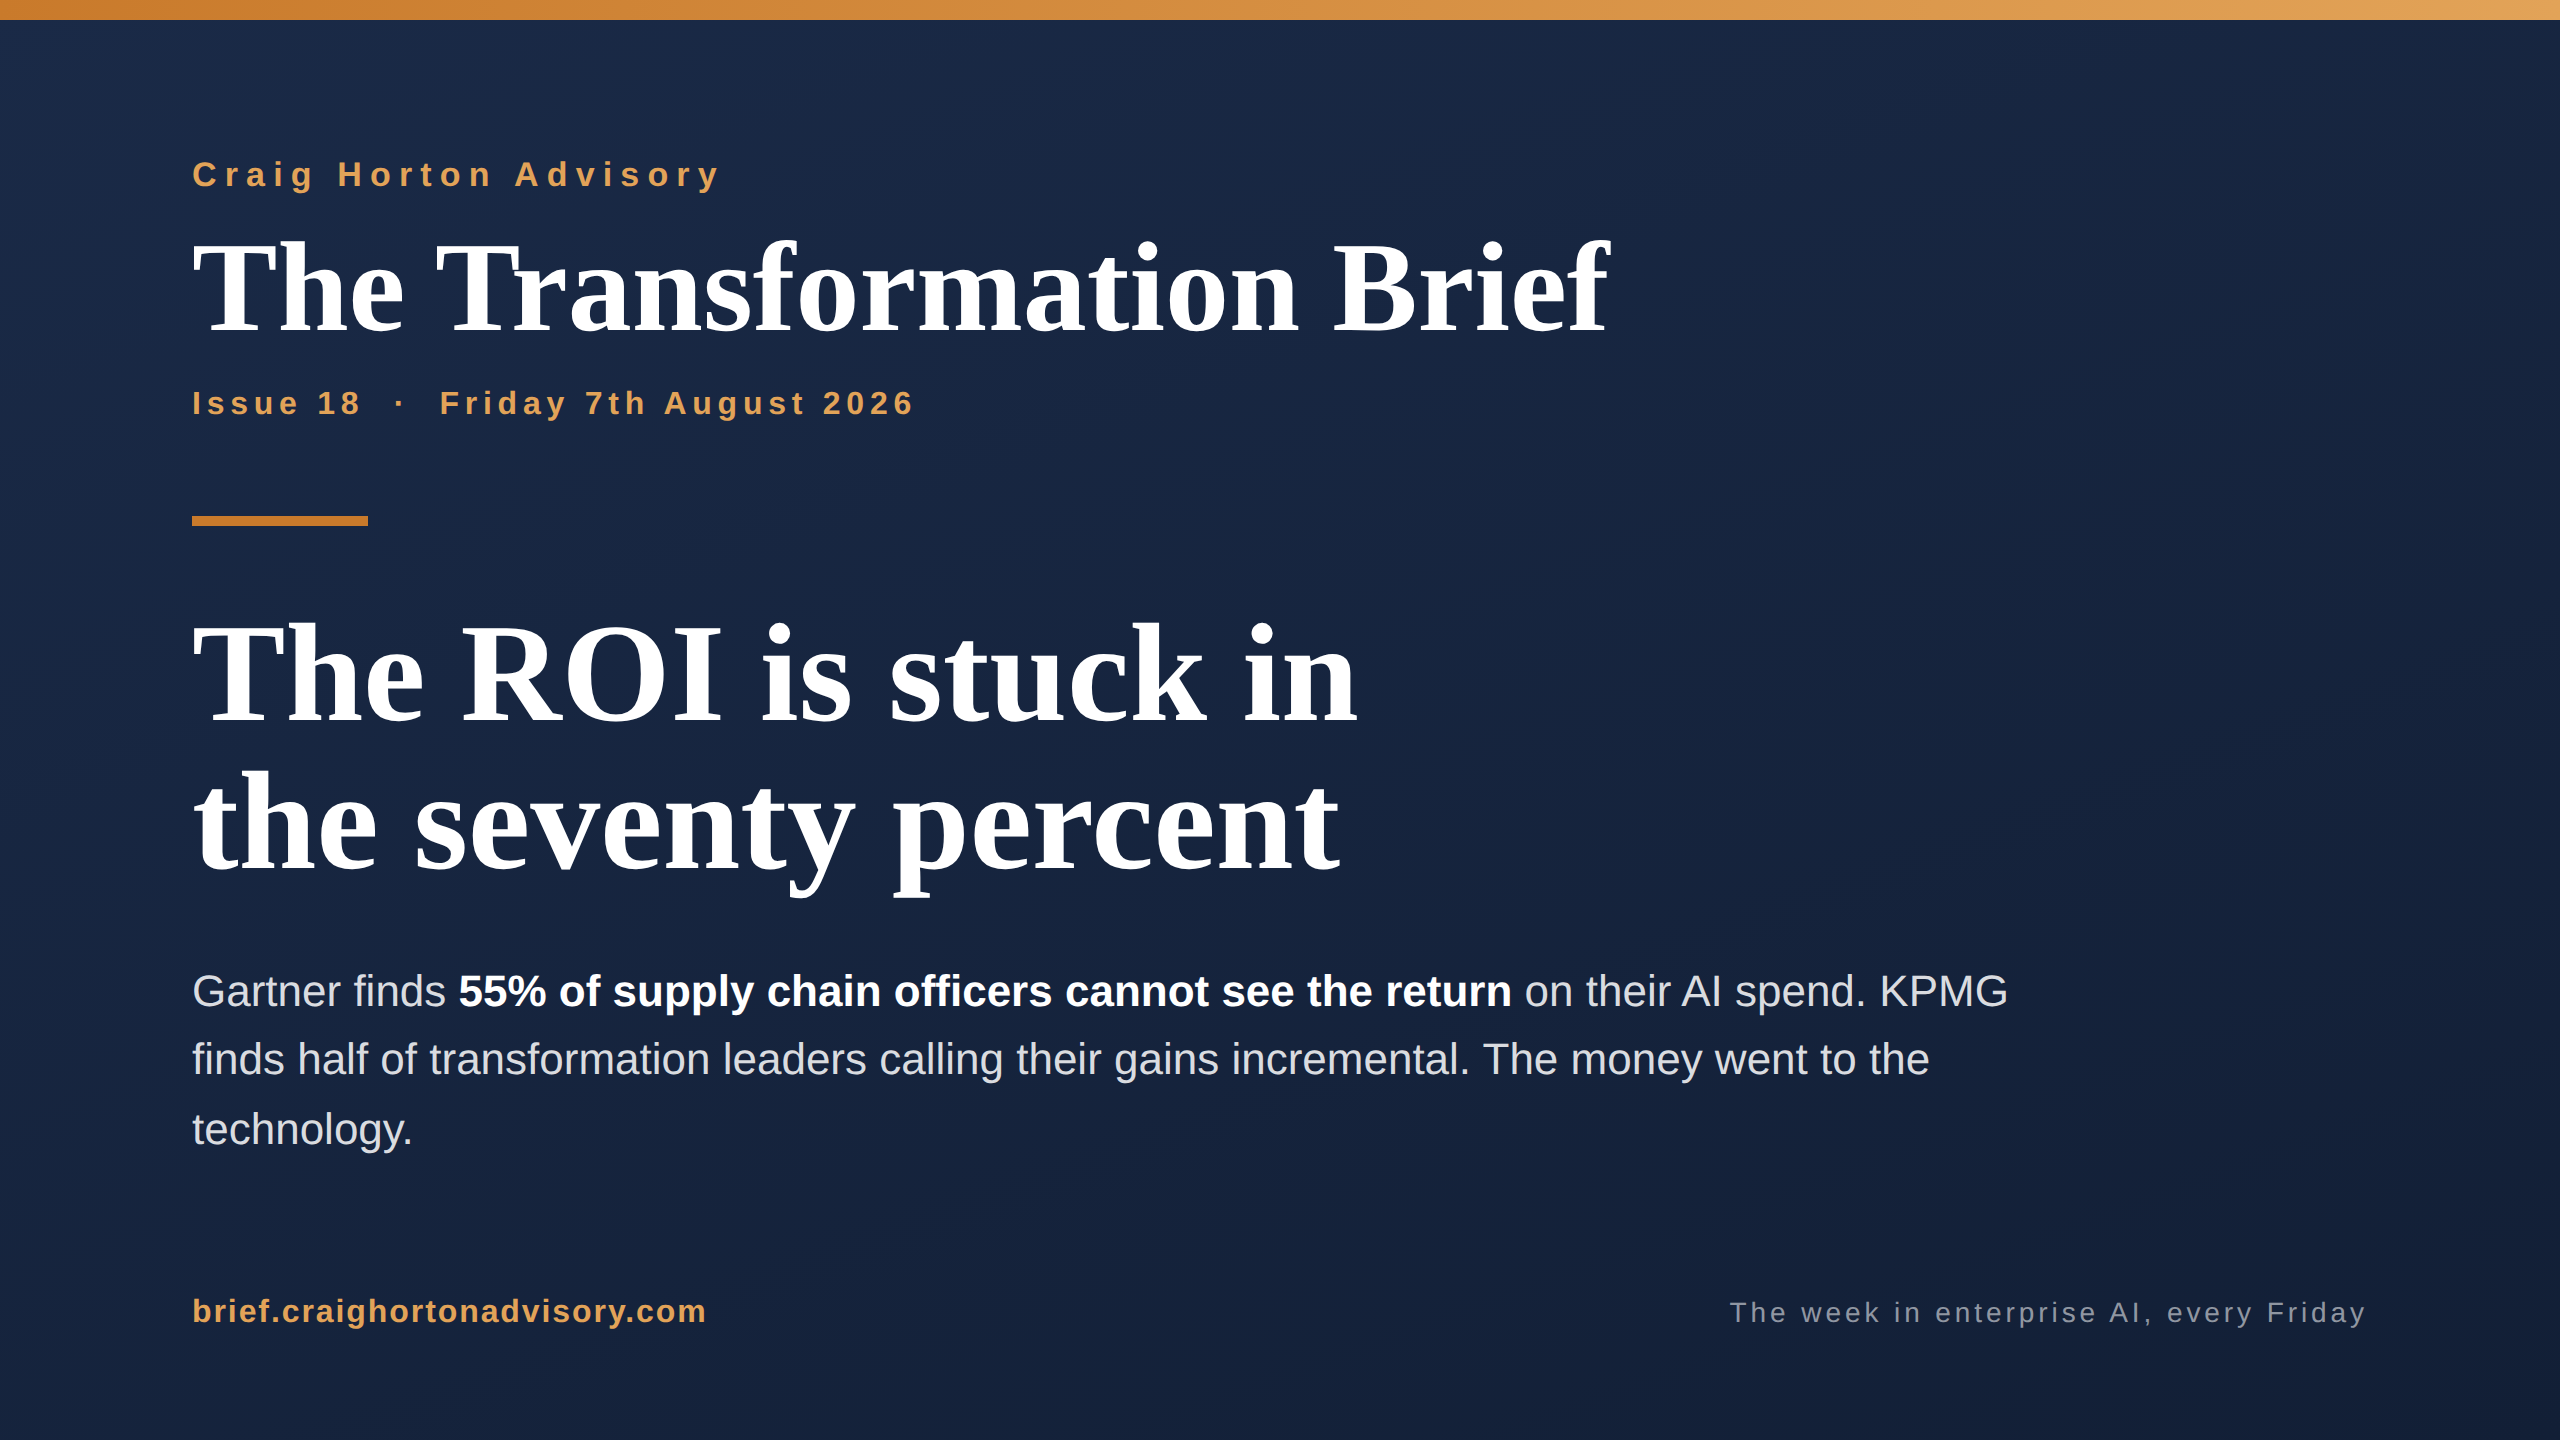
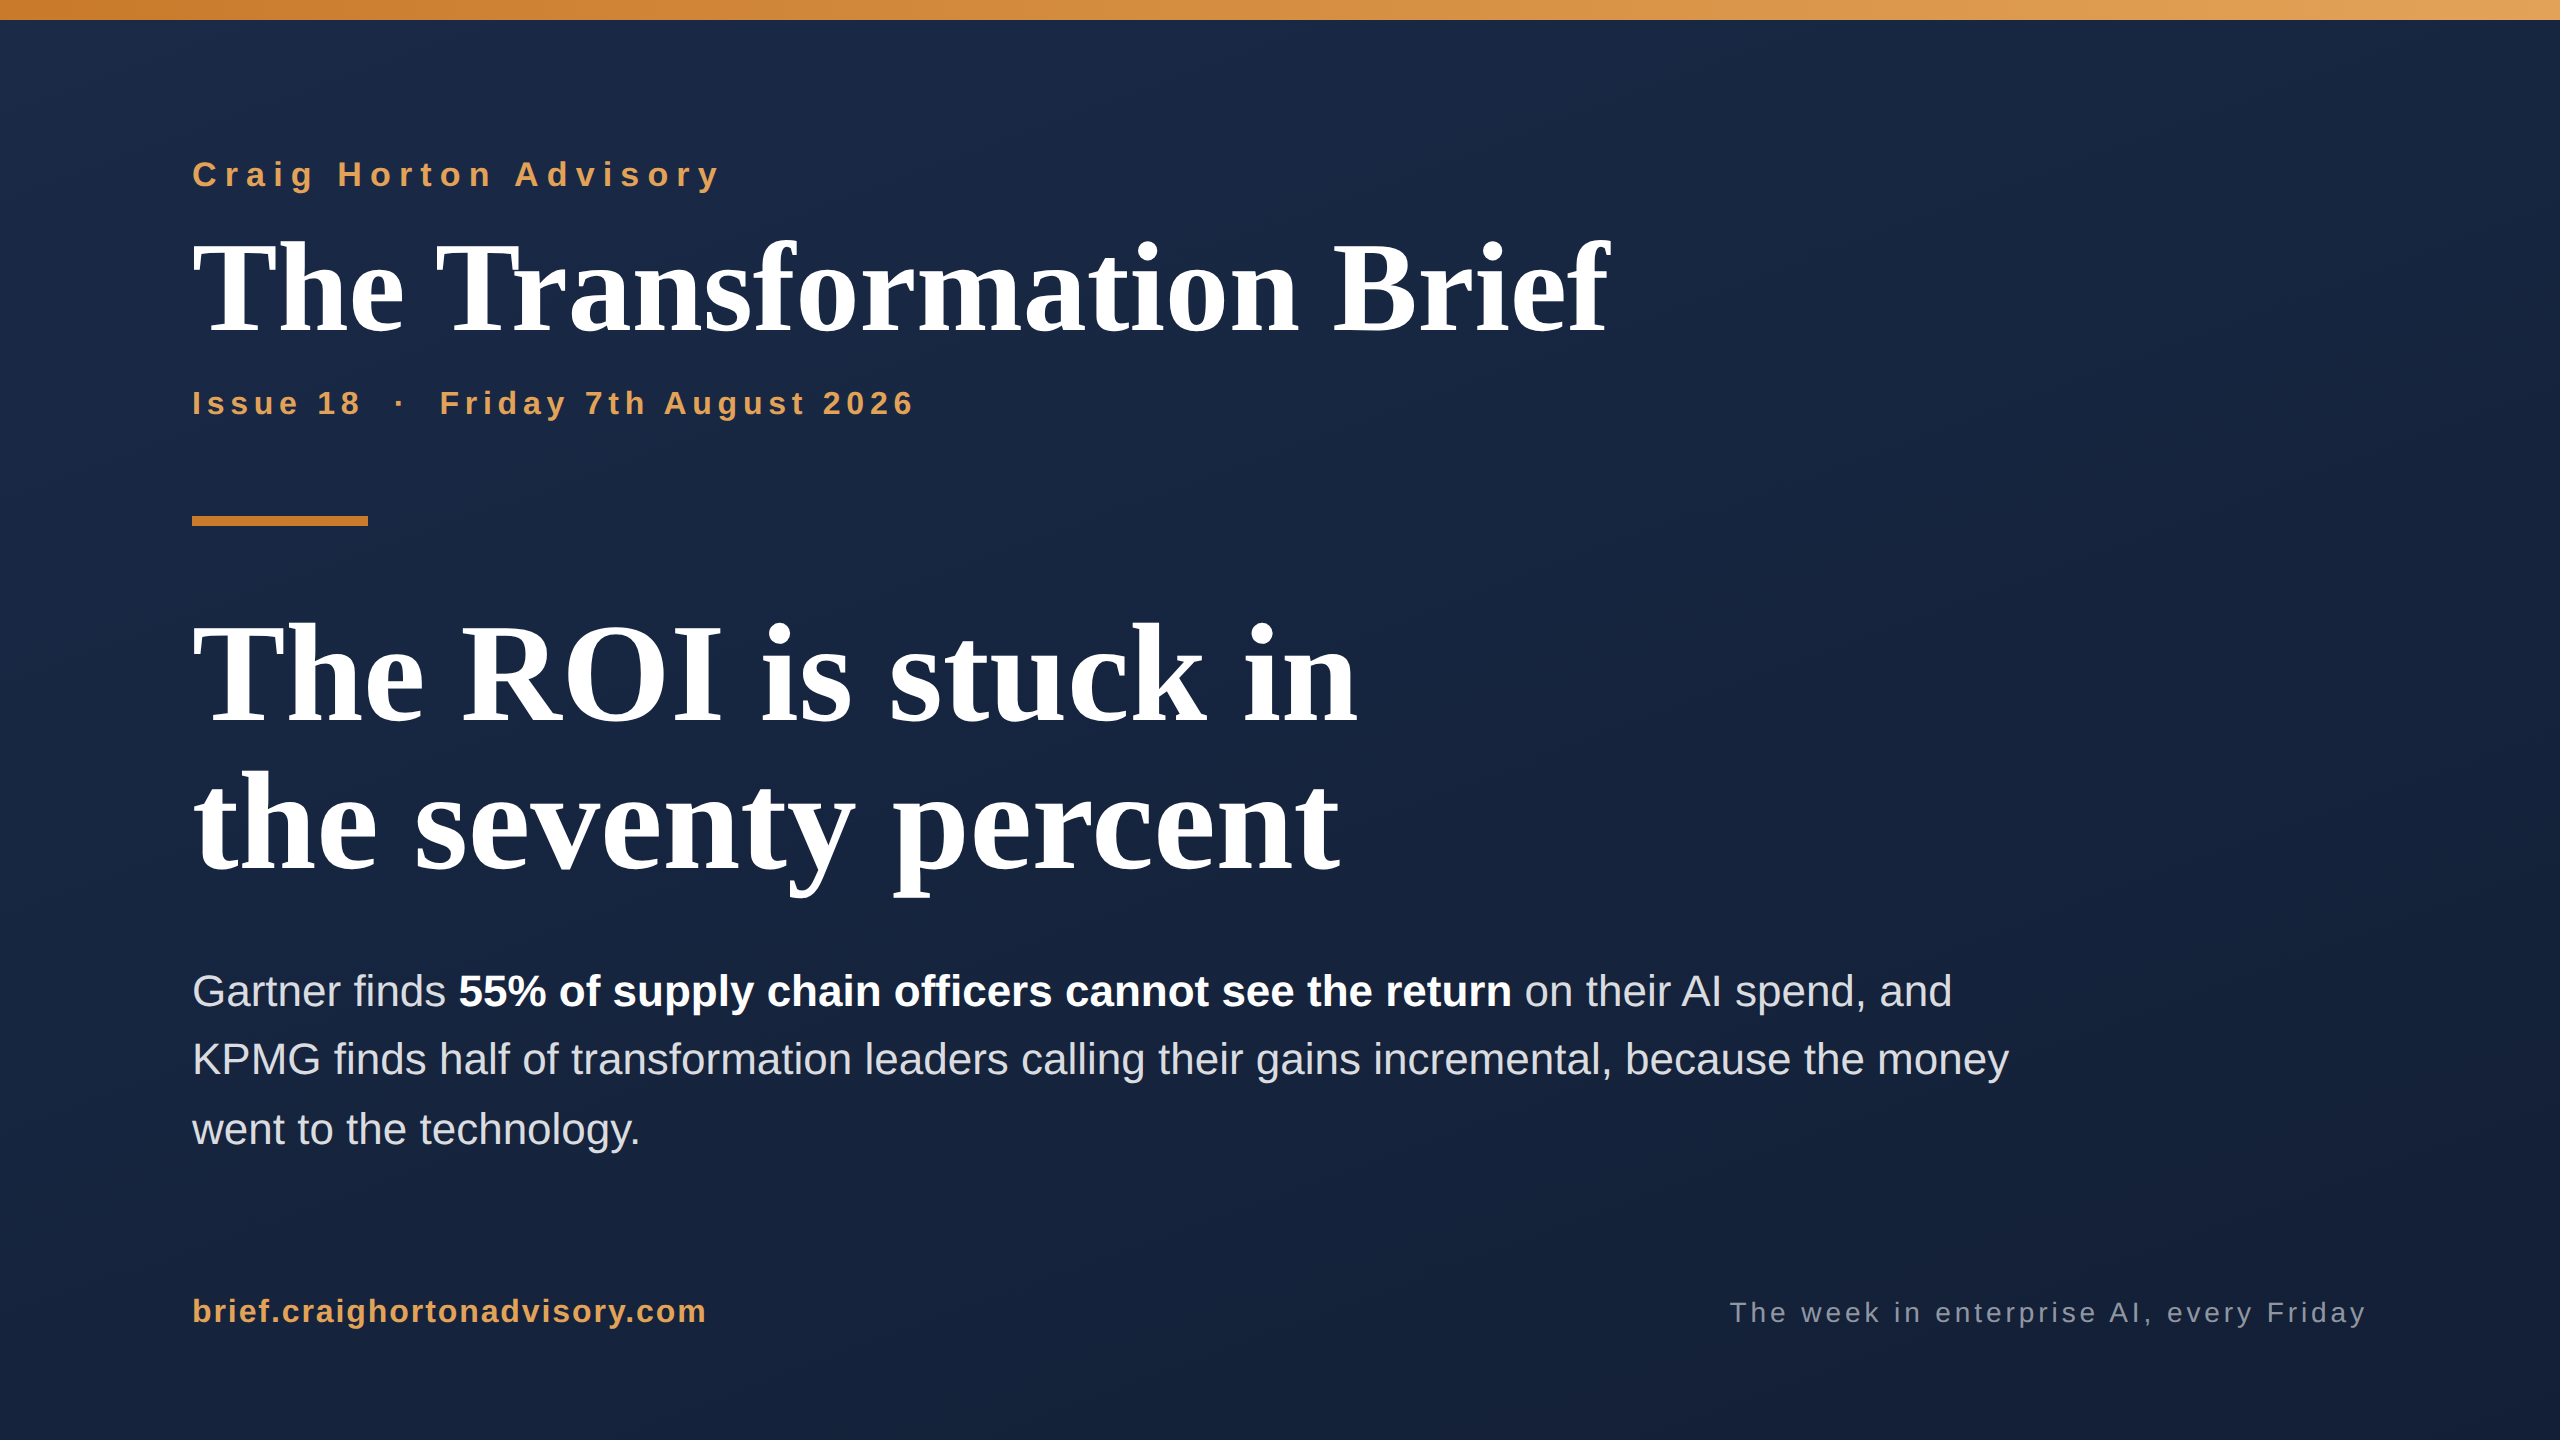
Apply what-i-hate pass to Issue 18: remove contrast flips, fragments and banned words
Nine contrast flips and staccato fragments rewritten, 'landscape' removed
from the SAP paraphrase, cover subline smoothed. LinkedIn text mirrored.

Claude-Session: https://claude.ai/code/session_017yqBH6dMmJRGi7sL5LGzWv

Changed region(s): [[0.0625, 0.6562, 0.7812, 0.8125]]

diff --git a/issue-18-briefing.html b/issue-18-briefing.html
@@ -80,7 +80,7 @@
       <div class="who">Craig Horton</div>
       <div class="role">The Transformation Brief</div>
       <p>Good morning. On Wednesday Gartner reported that most chief supply chain officers cannot see the return on their AI spending, while two thirds of their digital investment now goes to AI. KPMG, surveying 1,750 transformation leaders, found half of them describing their AI productivity gains as incremental.</p>
-      <p>Two firms, two methods, one answer. The money is going in and the return is sitting somewhere nobody funded.</p>
+      <p>Two firms, two methods, and the same answer. The money is going in and the return is sitting somewhere nobody funded.</p>
     </div>
   </div>
 
@@ -89,15 +89,15 @@
     <h2>The ROI is stuck in the seventy percent</h2>
     <p>Gartner surveyed 394 supply chain professionals at organisations turning over at least $250m, then 135 senior leaders. <b>55% are unclear on the return from their AI investments</b>, while <b>67% of supply chain digital investment is now allocated to AI</b>.</p>
     <span class="src"><a href="https://www.gartner.com/en/newsroom/press-releases/2026-08-05-gartner-survey-finds-majority-of-chief-supply-chain-officers-unclear-on-ai-investment-returns">Gartner, 5th August 2026</a></span>
-    <p>The interesting part is the cause Gartner names. AI use cases proliferate faster than organisations can build the change approaches to support them. The technology is not the constraint, the absorption is.</p>
+    <p>The interesting part is the cause Gartner names. AI use cases proliferate faster than organisations can build the change approaches to support them. What limits the return is absorption, and absorption is a change problem before it is a technology one.</p>
     <p>KPMG reaches the same place from a different direction. Organisations are running an average of <b>3.5 transformations at once</b>, and <b>48% call their AI productivity gains incremental</b>, with only 11% describing them as substantial. KPMG's own reading is that enterprises are scaling AI faster than they are redesigning themselves to support it, so the gains stay local and never become enterprise results.</p>
     <span class="src"><a href="https://kpmg.com/xx/en/our-insights/transformation/transforming-the-enterprise.html">KPMG, Transforming the Enterprise 2026, 1,750 leaders across 20 countries</a></span>
     <p>This is the 10-20-70 rule with a survey attached. Ten percent algorithms, twenty percent technology, seventy percent people, process and organisational design. The industry keeps funding the thirty and then asking why the seventy has not delivered.</p>
-    <p>A CSCO who cannot see the ROI is not looking at a failed model. They are looking at a model that works, dropped into a workflow nobody redesigned, staffed by people nobody prepared, measured against a number nobody agreed.</p>
+    <p>A CSCO who cannot see the ROI is usually looking at a model that works perfectly well, dropped into a workflow nobody redesigned, staffed by people nobody prepared, and measured against a number nobody agreed.</p>
     <p>Hapag-Lloyd is worth looking at for the contrast. Their Fast Forward finance transformation covers 4,000 SAP users across more than 140 countries, and they have put <b>265 key users into the field as change ambassadors across six regions</b>, translating global standards into local language and practice.</p>
     <blockquote>Change Management is anchored in our program as a strategic enabler.<span class="attr">Dulaan Punsag-Odefey, OCM Lead, Hapag-Lloyd</span></blockquote>
-    <p>Anchored, not appended. That word is doing a lot of work, and it is the difference between a programme that budgets for adoption and one that hopes for it.</p>
-    <p>SAP's own conclusion from its customer reporting is blunter still. Technology adoption alone creates no business value, and plugging AI agents into your system landscape will drive zero value on its own.</p>
+    <p>Anchored is doing a lot of work in that sentence, and it marks the distance between a programme that budgets for adoption and one that hopes for it.</p>
+    <p>SAP's own conclusion from its customer reporting is blunter still. Technology adoption alone creates no business value, and plugging AI agents into your existing systems will drive zero value on its own.</p>
     <span class="src"><a href="https://news.sap.com/germany/2026/07/ai-adoption-und-sap-transformation-was-kunden-aus-der-praxis-berichten/">SAP News Center, customer reporting on AI adoption, July 2026</a></span>
   </div>
 
@@ -110,21 +110,21 @@
 
   <div class="office">
     <div class="clabel">From my office</div>
-    <p>Change enablement is one of the four things the AI Business Value Framework scores, alongside strategic alignment, financial return and governance risk. It is there because a strong financial case with weak change enablement does not become value, it becomes a Fix with a plan attached.</p>
+    <p>Change enablement is one of the four things the AI Business Value Framework scores, alongside strategic alignment, financial return and governance risk. It is there because a strong financial case sitting on weak change enablement comes back as a Fix, with the plays attached that would make it real.</p>
     <p>When the engine returns a Fix on change enablement, the plays are always the same shape. Write the case for change. Name the sponsor coalition. Listen to the people whose work is about to change. Connect the initiative to one board-level measure. Cut the scope that does not pay.</p>
     <p>None of that is exotic, and almost none of it is budgeted. Gartner has now put a number on what happens when it is skipped, and the number is 55% of supply chain leaders who cannot tell you what they got.</p>
   </div>
 
   <div class="sec">
     <div class="flag">On the radar</div>
-    <div class="story"><div class="n">1</div><div><h3>Gartner's own prescription is a change strategy, not a tech one</h3><p>Their advice to CSCOs is a rightsized change management strategy that explicitly links change execution to AI strategy, supply chain strategy and enterprise priorities, so that change resource goes to outcomes rather than to individual activities.</p><p>Read that as a warning about change theatre. Activity is easy to fund and easy to report. Outcomes need somebody to own them.</p><span class="src"><a href="https://www.gartner.com/en/newsroom/press-releases/2026-08-05-gartner-survey-finds-majority-of-chief-supply-chain-officers-unclear-on-ai-investment-returns">Gartner, 5th August 2026</a></span></div></div>
-    <div class="story"><div class="n">2</div><div><h3>Three and a half transformations at once</h3><p>KPMG's finding that organisations run an average of 3.5 concurrent transformations deserves more attention than it gets. Every one of them competes for the same sponsors, the same change capacity and the same exhausted middle managers.</p><p>Pace layer drag is not a metaphor. It is what happens when four programmes need the same twelve people.</p><span class="src"><a href="https://kpmg.com/xx/en/our-insights/transformation/transforming-the-enterprise.html">KPMG, Transforming the Enterprise 2026</a></span></div></div>
-    <div class="story"><div class="n">3</div><div><h3>Capability is starting to decide retention</h3><p>Gartner predicts that by 2027 half of enterprises without a people-centric AI strategy will lose their top AI talent to rivals.</p><p>Same seventy percent, different symptom. Leaders who file this under HR will watch their best people leave for the organisations that treated it as strategy.</p><span class="src"><a href="https://www.gartner.com/en/newsroom/press-releases/2026-05-13-gartner-predicts-by-2027-50-percent-of-enterprises-without-a-people-centric-ai-strategy-will-lose-their-top-ai-talent">Gartner, 13th May 2026</a></span></div></div>
+    <div class="story"><div class="n">1</div><div><h3>Gartner's own prescription is a change strategy, not a tech one</h3><p>Their advice to CSCOs is a rightsized change management strategy that explicitly links change execution to AI strategy, supply chain strategy and enterprise priorities, so that change resource goes to outcomes rather than to individual activities.</p><p>Read that as a warning about change theatre, because activity is easy to fund and easy to report, while outcomes need somebody to own them.</p><span class="src"><a href="https://www.gartner.com/en/newsroom/press-releases/2026-08-05-gartner-survey-finds-majority-of-chief-supply-chain-officers-unclear-on-ai-investment-returns">Gartner, 5th August 2026</a></span></div></div>
+    <div class="story"><div class="n">2</div><div><h3>Three and a half transformations at once</h3><p>KPMG's finding that organisations run an average of 3.5 concurrent transformations deserves more attention than it gets. Every one of them competes for the same sponsors, the same change capacity and the same exhausted middle managers.</p><p>Pace layer drag shows up exactly here, when four programmes need the same twelve people and the slowest layer sets the speed.</p><span class="src"><a href="https://kpmg.com/xx/en/our-insights/transformation/transforming-the-enterprise.html">KPMG, Transforming the Enterprise 2026</a></span></div></div>
+    <div class="story"><div class="n">3</div><div><h3>Capability is starting to decide retention</h3><p>Gartner predicts that by 2027 half of enterprises without a people-centric AI strategy will lose their top AI talent to rivals.</p><p>That is the same seventy percent surfacing as a different symptom, and leaders who file it under HR will watch their best people leave for the organisations that treated it as strategy.</p><span class="src"><a href="https://www.gartner.com/en/newsroom/press-releases/2026-05-13-gartner-predicts-by-2027-50-percent-of-enterprises-without-a-people-centric-ai-strategy-will-lose-their-top-ai-talent">Gartner, 13th May 2026</a></span></div></div>
   </div>
 
   <div class="qbox">
     <div class="qtag">The question I would take into the room</div>
-    <div class="qtext">Look at your largest AI programme and find the change enablement line in its budget. If there is no line, you have not bought a transformation, you have bought a licence and a hope.</div>
+    <div class="qtext">Look at your largest AI programme and find the change enablement line in its budget. If there is no line, you have bought a licence and a hope.</div>
   </div>
 
   <div class="foot">
